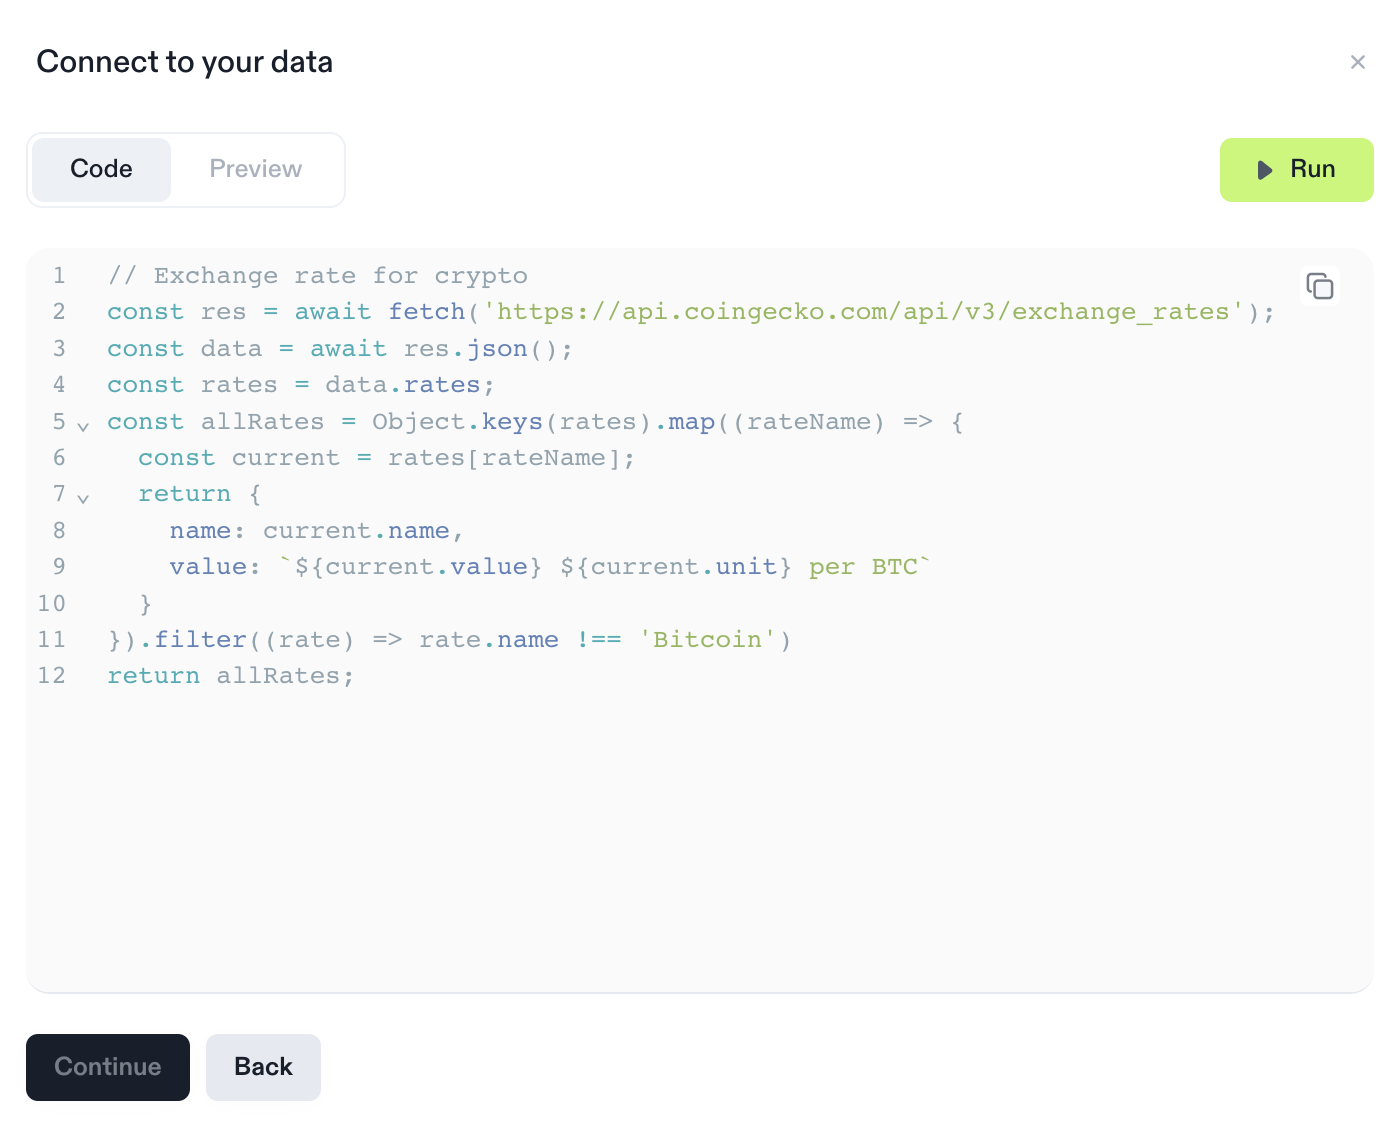
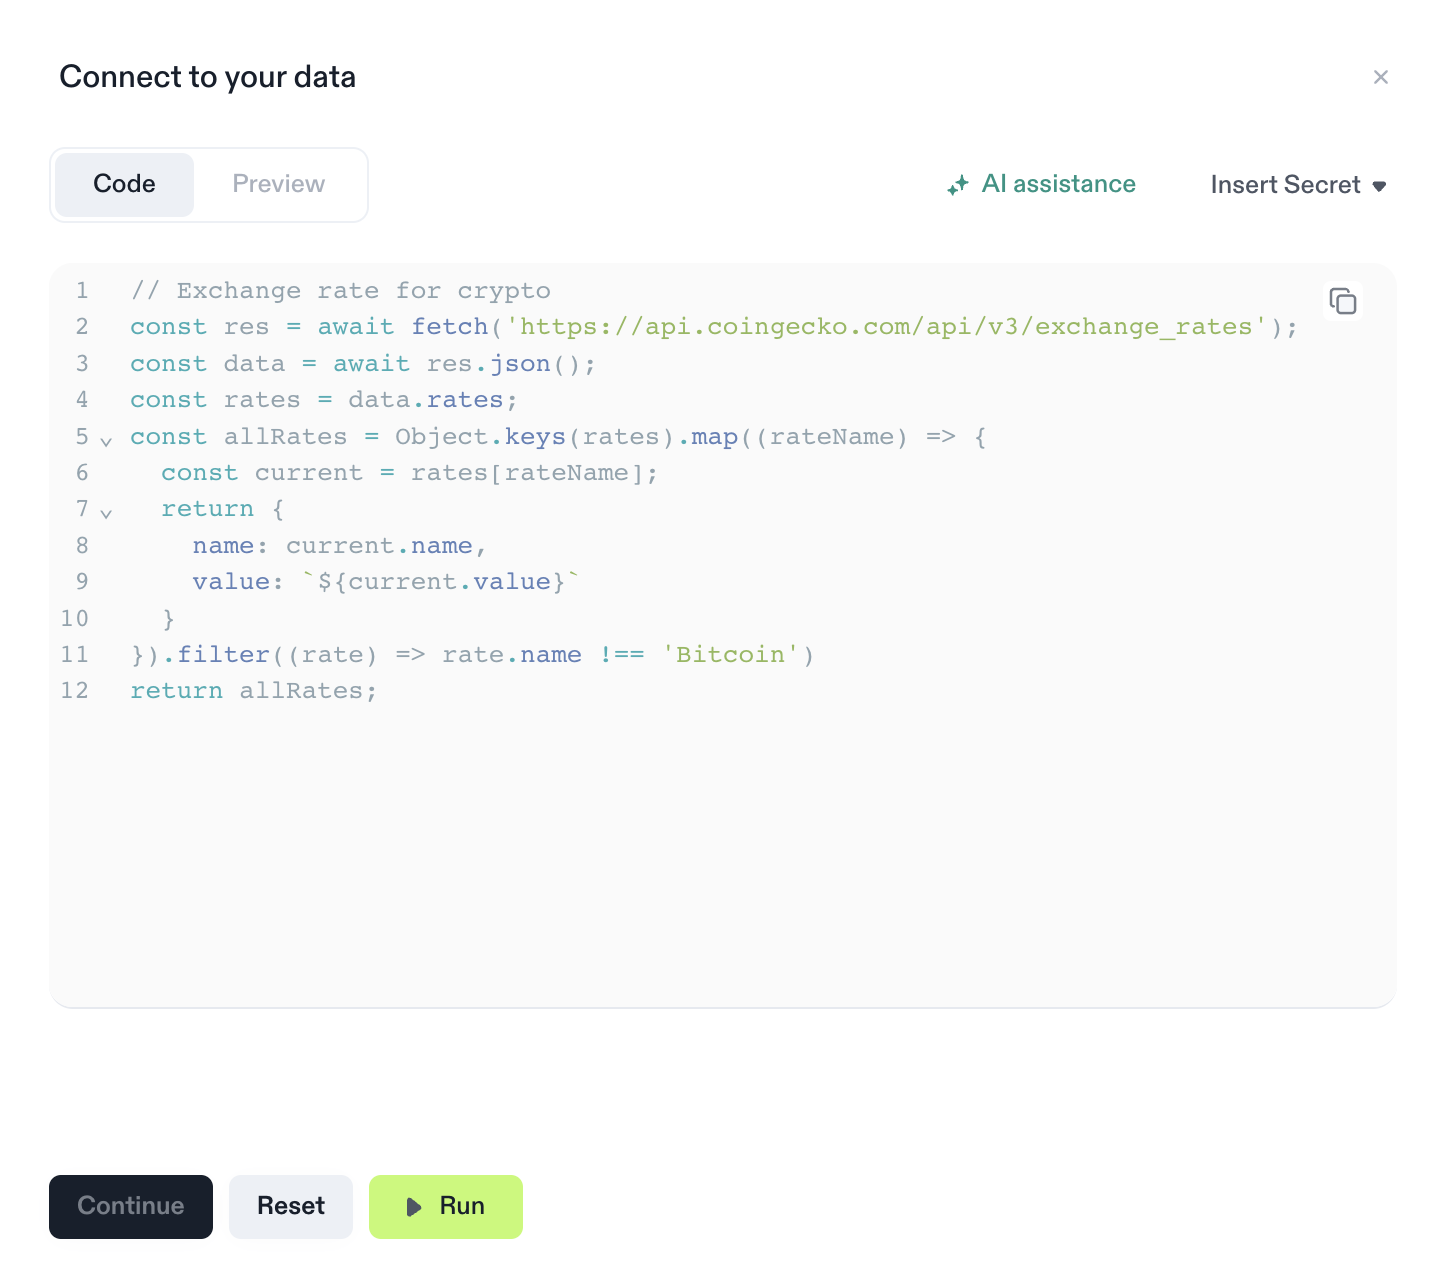
Docs-integrations-julylaunch (#4078)
* first pass, missing new YT-vids & a thumbnail

* updated for api secrets & sql

* added img

* using same image for sql & code preview

diff --git a/apps/docs/docs/integrations/21-SQL.md b/apps/docs/docs/integrations/21-SQL.md
@@ -1,0 +1,30 @@
+---
+sidebar_position: 21
+sidebar_class_name: new
+---
+
+# Code: Data from SQL
+
+import YouTubePlayer from '@site/src/components/VideoCards/videos';
+
+<YouTubePlayer videoId="irTKNI61DPA" thumbnailUrl="/docs/img/thumbnails/thumbnail-sql-integrations.png" />
+
+<br />
+
+## Database Connections
+
+To create a SQL integration, you first need to set up a database connection on the workspace level. To do this, go to your workspace and select "Data Connections" from the sidebar menu. After configuring and saving your connection, it will the be available for querying in all notebooks in your workspace.
+
+## Querying Data in a Notebook
+
+To create a SQL integration, add a new integration block and choose "SQL" (see [Integration Basics](/docs/integrations/basics) for details). In the SQL editor, you can then compose your query.
+
+![code editor](./img/sql-editor.png)
+
+In order to get data from the SQL integration into your document, run the code with the "Run"-button. Running the code will show a small console so you get feedback if errors occur. Once ran successfully, you can then continue to the result preview either via the navigation bar, or the "Continue"-button.
+
+## Previewing Data
+
+![result preview](./img/code-preview.png)
+
+On the preview pane you see the result and the format it will be available in. Here you can change the data type of your result, and verify that you actually got the data you wanted. Once done with this step, the "Insert"-button will give you a new integration block that you can then re-use in your document just like any other variable (see [Integration Basics](/docs/integrations/basics) for details).

diff --git a/apps/docs/docs/integrations/11-code.md b/apps/docs/docs/integrations/11-code.md
@@ -21,10 +21,14 @@ In order to get data from a code integration into your document, you need to fir
 
 ## Previewing Data
 
-![code editor](./img/code-preview.png)
+![result preview](./img/code-preview.png)
 
 On the preview pane you will see the result and the format it will be available in in your document. Here you can change the type of the columns or simple result, and make sure that you actually got the data you wanted. Once done with this step, the "Insert"-button will give you a new integration block that you can re-use in your document just like any other variable (see [Integration Basics](/docs/integrations/basics) for details).
 
-## Private Keys (Coming Soon)
+## Private Keys
 
-We have a future update planned that will introduce the option to specify private keys, ensuring secure reuse within your code. With this feature, you will be able to protect your API setup and restrict access from unauthorized users. Stay tuned for more information on how to utilize private keys effectively or contact us via [support@decipad.com](mailto:support@decipad.com).
+To query against a private API, you can use our API secret feature to make sure that your actual credentials are not exposed when publishing or sharing your notebook. To add an API secret go to your workspace and select "Data Connections" from the sidebar menu. After saving your API key, it will the be available for insertion in all notebooks in your workspace.
+
+:::note Examples
+For security reasons, API secrets can only be used directly in a `fetch()` statement. You can not assign them to variables or use them arbitrarily.
+:::
